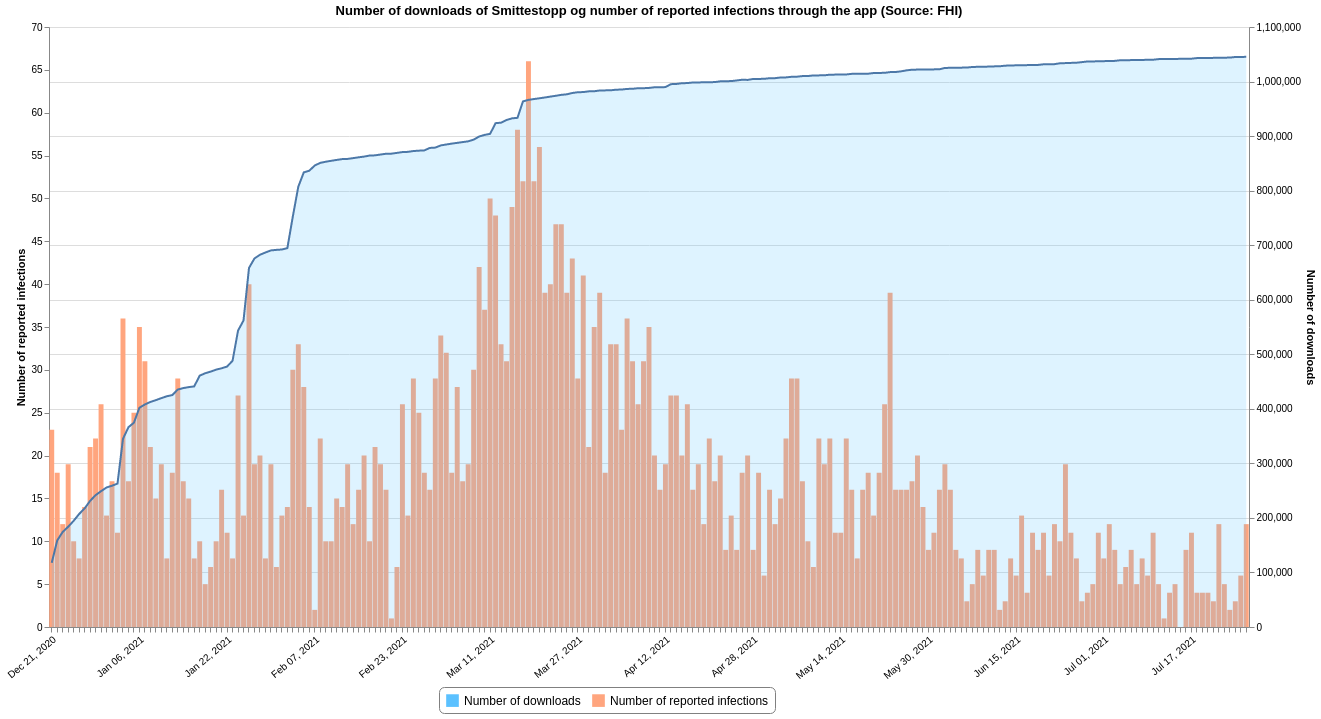
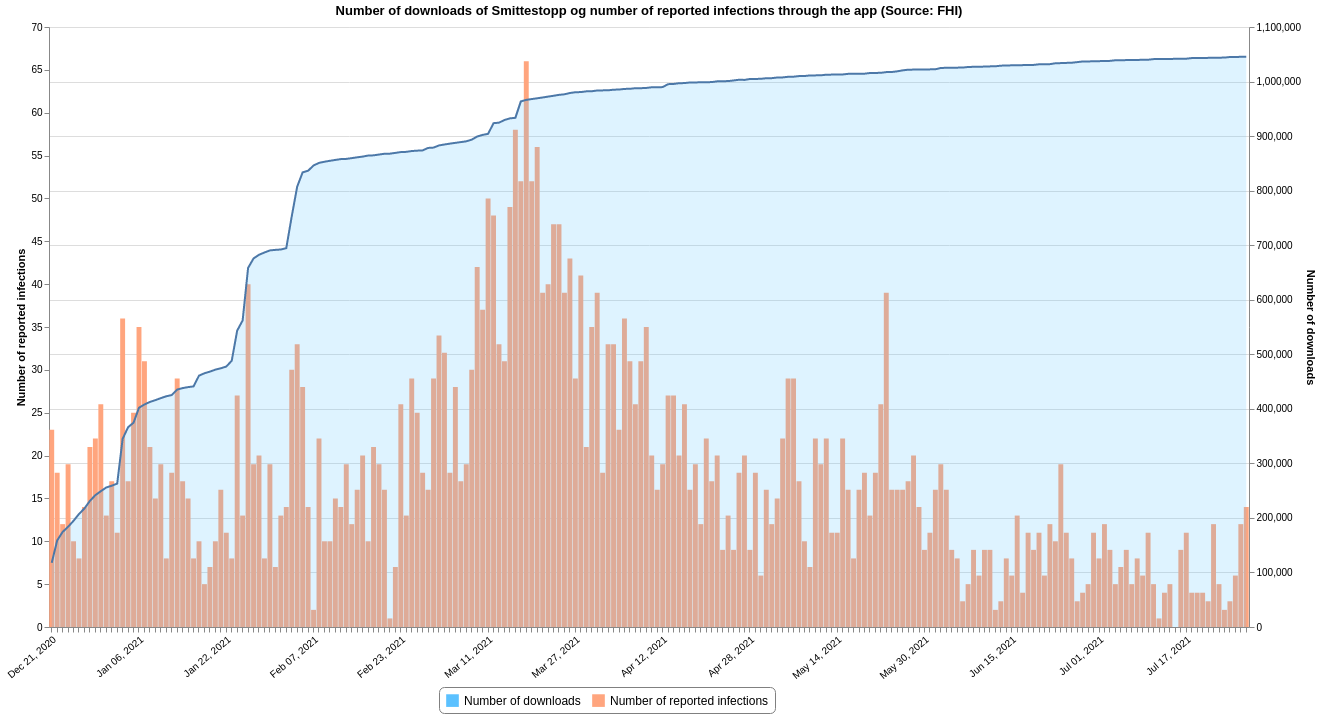
Updated 2021-07-29 11:00

diff --git a/README.md b/README.md
@@ -17,7 +17,7 @@ This repository contains datasets of daily time-series data related to COVID-19 
 |[Tested Lab](#tested_labcsv)|FHI|2021-07-28 13:20:41+02:00|[<center>csv</center>](https://raw.githubusercontent.com/frefrik/covid19norge-data/main/data/tested_lab.csv)|[<center>preview</center>](data/tested_lab.csv)|
 |[Transport](#transportcsv)|FHI|2021-07-29 09:20:46+02:00|[<center>csv</center>](https://raw.githubusercontent.com/frefrik/covid19norge-data/main/data/transport.csv)|[<center>preview</center>](data/transport.csv)|
 |[Vaccine Doses](#vaccine_dosescsv)|FHI|2021-07-28 13:20:45+02:00|[<center>csv</center>](https://raw.githubusercontent.com/frefrik/covid19norge-data/main/data/vaccine_doses.csv)|[<center>preview</center>](data/vaccine_doses.csv)|
-|[Smittestopp](#smittestoppcsv)|FHI|2021-07-28 09:40:52+02:00|[<center>csv</center>](https://raw.githubusercontent.com/frefrik/covid19norge-data/main/data/smittestopp.csv)|[<center>preview</center>](data/smittestopp.csv)|
+|[Smittestopp](#smittestoppcsv)|FHI|2021-07-29 11:00:50+02:00|[<center>csv</center>](https://raw.githubusercontent.com/frefrik/covid19norge-data/main/data/smittestopp.csv)|[<center>preview</center>](data/smittestopp.csv)|
 <!-- table ends -->
 
 ## Datafiles
